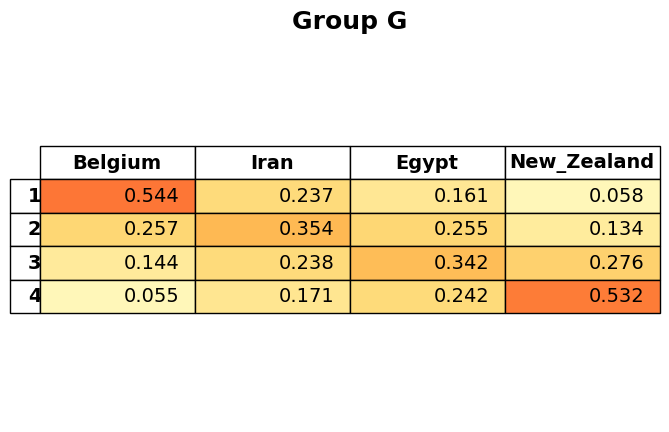
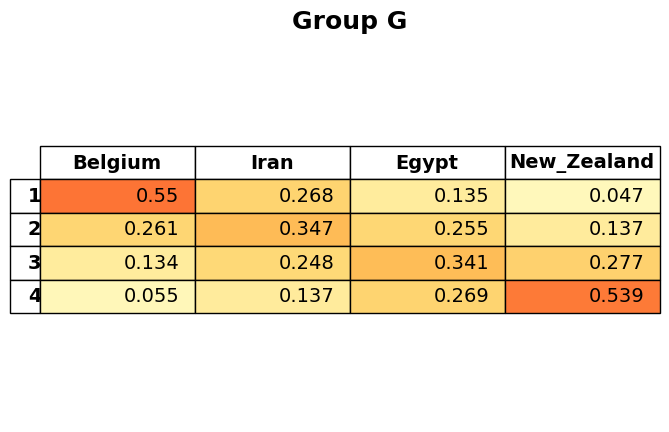
Fixed average points calculation in calculate_third_place_results()

diff --git a/tom_model/Utilities.py b/tom_model/Utilities.py
@@ -46,7 +46,7 @@ def calculate_third_place_results(total_third_place, groups, iterations):
 
     #calculate average third place table
     average_tp_table = deepcopy(total_third_place)
-    average_tp_table['Points'] = average_tp_table['Points'] / iterations
+    average_tp_table['Points'] = average_tp_table['Points'] / average_tp_table['Num Appearances']
     average_tp_table['Num Appearances'] = average_tp_table['Num Appearances'] / iterations
 
     return total_third_place, average_tp_table
